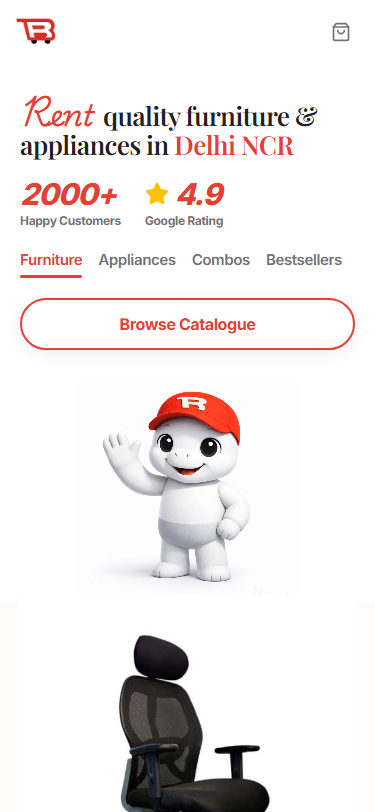
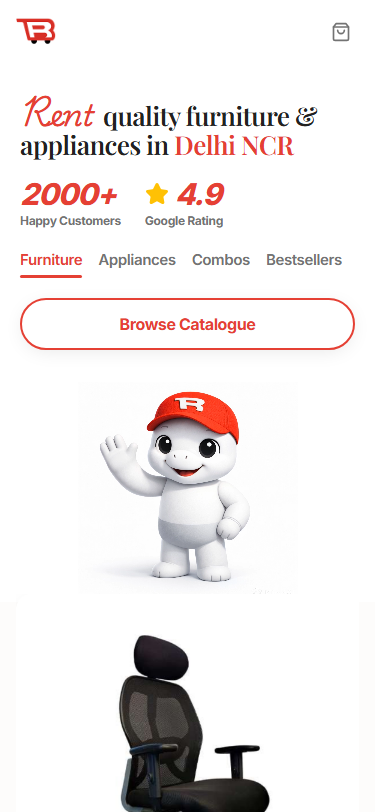
style: swap footer columns to align offices on the left and quick links on the right

Changed region(s): [[0.264, 0.4926, 0.6453, 0.6158]]

diff --git a/src/components/Footer.jsx b/src/components/Footer.jsx
@@ -17,63 +17,6 @@ const Footer = () => {
           </p>
         </div>
         <div className="grid grid-cols-2 gap-8 max-w-lg">
-          <div className="space-y-6">
-            {/* Quick Links & Policies */}
-            <div>
-              <h4 className="font-bold text-sm mb-4 font-sans">Quick Links</h4>
-              <ul className="space-y-2 text-sm text-muted-foreground">
-                <li>
-                  <Link
-                    to="/catalog"
-                    className="hover:text-primary transition-colors font-sans"
-                  >
-                    Browse Products
-                  </Link>
-                </li>
-                <li>
-                  <Link
-                    to="/about"
-                    className="hover:text-primary transition-colors font-sans"
-                  >
-                    About Us
-                  </Link>
-                </li>
-                <li>
-                  <Link
-                    to="/faqs"
-                    className="hover:text-primary transition-colors font-sans"
-                  >
-                    FAQs
-                  </Link>
-                </li>
-                <li>
-                  <Link
-                    to="/terms-n-conditions"
-                    className="hover:text-primary transition-colors font-sans"
-                  >
-                    Terms &amp; Conditions
-                  </Link>
-                </li>
-                <li>
-                  <Link
-                    to="/shipping-returns"
-                    className="hover:text-primary transition-colors font-sans"
-                  >
-                    Shipping &amp; Returns
-                  </Link>
-                </li>
-                <li>
-                  <Link
-                    to="/contact"
-                    className="hover:text-primary transition-colors font-sans"
-                  >
-                    Contact Us
-                  </Link>
-                </li>
-              </ul>
-            </div>
-          </div>
-
           {/* Office Locations */}
           <div className="space-y-6">
             {/* Gurgaon */}
@@ -126,6 +69,63 @@ const Footer = () => {
                   <span className="font-sans">[phone redacted]</span>
                 </a>
               </div>
+            </div>
+          </div>
+
+          {/* Quick Links & Policies */}
+          <div className="space-y-6">
+            <div>
+              <h4 className="font-bold text-sm mb-4 font-sans">Quick Links</h4>
+              <ul className="space-y-2 text-sm text-muted-foreground">
+                <li>
+                  <Link
+                    to="/catalog"
+                    className="hover:text-primary transition-colors font-sans"
+                  >
+                    Browse Products
+                  </Link>
+                </li>
+                <li>
+                  <Link
+                    to="/about"
+                    className="hover:text-primary transition-colors font-sans"
+                  >
+                    About Us
+                  </Link>
+                </li>
+                <li>
+                  <Link
+                    to="/faqs"
+                    className="hover:text-primary transition-colors font-sans"
+                  >
+                    FAQs
+                  </Link>
+                </li>
+                <li>
+                  <Link
+                    to="/terms-n-conditions"
+                    className="hover:text-primary transition-colors font-sans"
+                  >
+                    Terms &amp; Conditions
+                  </Link>
+                </li>
+                <li>
+                  <Link
+                    to="/shipping-returns"
+                    className="hover:text-primary transition-colors font-sans"
+                  >
+                    Shipping &amp; Returns
+                  </Link>
+                </li>
+                <li>
+                  <Link
+                    to="/contact"
+                    className="hover:text-primary transition-colors font-sans"
+                  >
+                    Contact Us
+                  </Link>
+                </li>
+              </ul>
             </div>
           </div>
         </div>

diff --git a/PROGRESS.md b/PROGRESS.md
@@ -5,7 +5,7 @@
 
 ## Current State
 
-- **Latest commit:** `f0fff989` — feat: add static trust pages, locations contact page, footer SPA navigation, and E2E tests
+- **Latest commit:** `ca5ed193` — style: swap footer columns to align offices on the left and quick links on the right
 - **Test status:** unit: passing (vitest) | e2e: passing (playwright 9/9)
 - **Lint:** clean (ESLint + TypeScript strict)
 - **Build:** `npm run build` succeeds; deployed to GitHub Pages